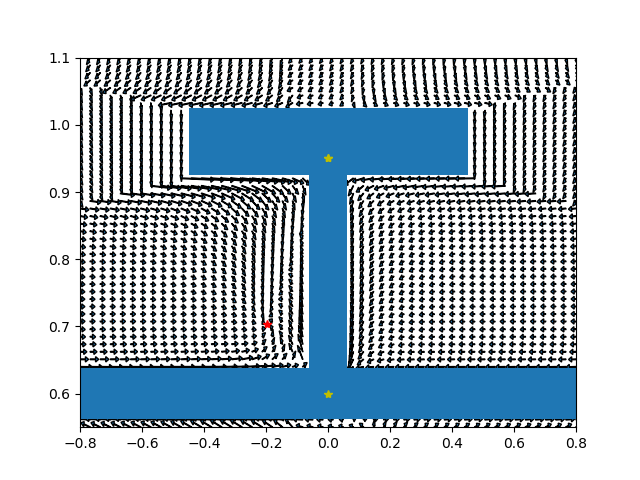
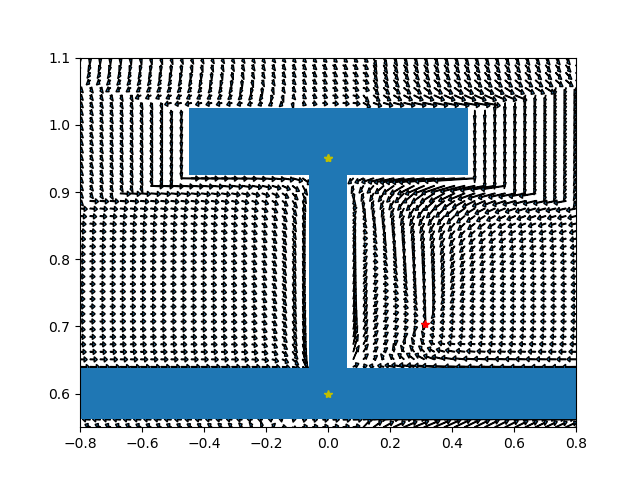
LOTS of changes... figured out that there is something wrong with our definition of gamma functions!!!

Changed region(s): [[0.125, 0.125, 0.9062, 0.7812], [0.125, 0.875, 0.9062, 0.9062]]

diff --git a/irg_panda_control/irg_panda_collision_control/scripts/cartHBSCollisionControl_DS_node.py b/irg_panda_control/irg_panda_collision_control/scripts/cartHBSCollisionControl_DS_node.py
@@ -3,6 +3,7 @@ from __future__ import print_function
 import rospy, math, sys
 from cartHBSModulation_class import CartesianMotionControl_DSModulation
 import numpy as np
+import numpy.linalg as LA
 from numpy import random as np_random
 
 # This is for modulation and visualization
@@ -45,9 +46,10 @@ if __name__ == '__main__':
                                                  # 2: Joint-space DS with task-space target  (JT-DS)
     
     #  Selected goal in joint space #
-    goal        = rospy.get_param('~goal', 1)   
-    ctrl_orient = rospy.get_param('~ctrl_orient', 0)   
-    draw_DS     = rospy.get_param('~draw_DS', 1)   
+    goal           = rospy.get_param('~goal', 1)   
+    ctrl_orient    = rospy.get_param('~ctrl_orient', 0)   
+    draw_DS        = rospy.get_param('~draw_DS', 1)   
+    do_streamlines = rospy.get_param('~stream', 1)   
 
     # control for position + orientation
     # DS_attractor= [x, y, z, q_x, q_y, q_z, q_w]
@@ -80,74 +82,123 @@ if __name__ == '__main__':
         ###########################################################        
         ''' -- Visualize expected DS vector field in 2D Slice -- '''
         ###########################################################        
-        x_target  = np.array([DS_attractor[1], DS_attractor[2]])
+        x_target      = np.array([DS_attractor[1], DS_attractor[2]])
+        margin_offset = 1.5
         # Define Reference Points
         ref_point1 =   np.array([0.0, 0.60])
 
         # Merged/T-shape
-        ref_point2 =   np.array([0.0, 0.95])
-        ref_point3  =  np.array([0.0, 0.95])
+        ref_point2 =   np.array([0.0, 1.025])
+        ref_point3  =  np.array([0.0, 1.025])
 
         # Independent Reference Points
-        # ref_point2 =   np.array([0.0, 0.975])
-        # ref_point3  =  np.array([0.0, 0.775])
+        # ref_point2 =   np.array([0.0, 1.03])
+        # ref_point3  =  np.array([0.0, 0.825])
 
         # Define Gammas
-        gamma1    = GammaRectangle2D(np.array(1.60),  np.array(0.075), np.array([0.0, 0.6]),  ref_point1)
-        gamma2    = GammaRectangle2D(np.array(0.90),  np.array(0.10),  np.array([0.0, 0.975]),  ref_point2)
-        gamma3    = GammaRectangle2D(np.array(0.125),  np.array(0.30),   np.array([0.0, 0.775]), ref_point3)
+        gamma1    = GammaRectangle2D(np.array(1.60),  np.array(0.05),  np.array([0.0, 0.6]),  ref_point1, margin_offset)
+        gamma2    = GammaRectangle2D(np.array(0.80),  np.array(0.075),  np.array([0.0, 1.045]),  ref_point2, margin_offset)
+        gamma3    = GammaRectangle2D(np.array(0.075),  np.array(0.375),  np.array([0.0, 0.825]), ref_point3, margin_offset)
+        # gammas_2d = [gamma1, gamma2, gamma3]
+        gammas_2d = [gamma2]
 
+        if do_streamlines:
+            # Add streamline plot from learned LPV-DS
+            fig, ax1 = plt.subplots()        
+            # Create figure/environment to draw trajectories on
+            fig1, ax1 = plt.subplots()
+            ax1.set_xlim(-0.8, 0.8)
+            ax1.set_ylim(0.55, 1.25)
+            # plt.gca().set_aspect('equal', adjustable='box')
+            plt.xlabel('$x_1$',fontsize=15)
+            plt.ylabel('$x_2$',fontsize=15)
+            plt.title('HBS Modulated DS 2D slice (x-axis):',fontsize=15)
 
-        gammas_2d = [gamma1, gamma2, gamma3]
+            for gamma in gammas_2d:
+                gamma.draw()
 
-        plt.figure()
-        for i in np.linspace(-0.8, 0.8, 50):
-            for j in np.linspace(0.55, 1.1, 50):                    
-                x = np.array([i, j])
-                if min([gamma(x) for gamma in gammas_2d]) < 1:
-                    continue
-                orig_ds = linear_controller(x, x_target)
-                modulated_x_dot = modulation_HBS(x, orig_ds, gammas_2d) * 0.05
-                plt.arrow(i, j, modulated_x_dot[0], modulated_x_dot[1],
-                    head_width=0.008, head_length=0.01)
+            grid_size = 50
+            Y, X = np.mgrid[0.55:1.25:50j, -0.8:0.8:50j]
+            V, U = np.mgrid[0.55:1.25:50j, -0.8:0.8:50j]
+            gamma_eval = gamma3
+            gamma_val = np.zeros((len(X), len(Y)))
+            for i in range(grid_size):
+                for j in range(grid_size):
+                    x_query    = np.array([X[i,j], Y[i,j]])        
+                    orig_ds    = linear_controller(x_query, x_target)
+                    mod_x_dot  = modulation_HBS(x_query, orig_ds, gammas_2d)
+                    x_dot_norm = mod_x_dot/LA.norm(mod_x_dot) * 0.02
+                    U[i,j]     = x_dot_norm[0]
+                    V[i,j]     = x_dot_norm[1]
 
-        for gamma in gammas_2d:
-            gamma.draw()
-        plt.axis([-0.8, 0.8, 0.55, 1.1])
-        # plt.gca().set_aspect('equal', adjustable='box')
-        plt.plot([x_target[0]], [x_target[1]], 'r*')
-        plt.plot([ref_point1[0]], [ref_point1[1]], 'y*')
-        plt.plot([ref_point2[0]], [ref_point2[1]], 'y*')
-        plt.plot([ref_point3[0]], [ref_point3[1]], 'y*')
-        # plt.savefig('../data/vector_field_HBS.png', bbox_inches='tight')
-        plt.savefig('../data/vector_field_HBS.png')
-        # plt.show()    
+                    gamma_vals     = np.stack([gamma(x_query) for gamma in gammas_2d])
+                    gamma_min      = min(gamma_vals)
+                    gamma_val[i,j] = gamma_min
+
+            strm      = ax1.streamplot(X, Y, U, V, density = 3.5, linewidth=0.55, color='k')
+            levels    = np.array([0, 1])
+            # cs0       = ax1.contour(X, Y, gamma_val, levels, origin='lower', colors='k', linewidths=2)
+            cs        = ax1.contourf(X, Y, gamma_val, np.arange(-5, 10, 2), cmap=plt.cm.coolwarm, extend='both', alpha=0.8)
+            cbar      = plt.colorbar(cs)
+            # cbar.add_lines(cs0)
+
+            # Add trajectories used to learn DS
+            ax1.plot([ref_point1[0]], [ref_point1[1]], 'y*')
+            ax1.plot([ref_point2[0]], [ref_point2[1]], 'y*')
+            ax1.plot([ref_point3[0]], [ref_point3[1]], 'y*')
+            ax1.plot(x_target[0], x_target[1], 'md', markersize=12, lw=2)
+            plt.savefig('../data/stream_lines_HBS.png')
+        else: 
+            plt.figure()
+            for i in np.linspace(-0.8, 0.8, 50):
+                for j in np.linspace(0.55, 1.1, 50):                    
+                    x = np.array([i, j])
+                    if min([gamma(x) for gamma in gammas_2d]) < 1:
+                        continue
+                    orig_ds = linear_controller(x, x_target)
+                    modulated_x_dot = modulation_HBS(x, orig_ds, gammas_2d) * 0.05
+                    plt.arrow(i, j, modulated_x_dot[0], modulated_x_dot[1],
+                        head_width=0.008, head_length=0.01)
+
+            for gamma in gammas_2d:
+                gamma.draw()
+            plt.axis([-0.8, 0.8, 0.55, 1.1])
+            plt.plot([x_target[0]], [x_target[1]], 'r*')
+            plt.plot([ref_point1[0]], [ref_point1[1]], 'y*')
+            plt.plot([ref_point2[0]], [ref_point2[1]], 'y*')
+            plt.plot([ref_point3[0]], [ref_point3[1]], 'y*')
+            plt.savefig('../data/vector_field_HBS.png')
 
     ##############################################
     ''' -- Generate Real 3D Gamma Functions -- '''
     ##############################################
-
+    margin_offset = 1.5
     # Define Reference Points
     ref_point1 =   np.array([0.625, 0.0, 0.60])
 
     # Merged/T-shape
-    ref_point2 =   np.array([0.625, 0.0, 0.95])
-    ref_point3  =  np.array([0.625, 0.0, 0.95])
+    ref_point2 =   np.array([0.625, 0.0, 1.025])
+    ref_point3  =  np.array([0.625, 0.0, 1.025])
 
     # Independent Reference Points
-    # ref_point2 =   np.array([0.625, 0.0, 0.975])
-    # ref_point3  =  np.array([0.625, 0.0, 0.775])
+    # ref_point2 =   np.array([0.625, 0.0, 1.03])
+    # ref_point3  =  np.array([0.625, 0.0, 0.825])    
 
     # Define Gammas
-    gamma1   = GammaRectangle3D(np.array(1.6),  np.array(0.075), np.array(0.2),    np.array([0.625, 0.0, 0.6]),  ref_point1)
-    gamma2   = GammaRectangle3D(np.array(0.90),  np.array(0.10),  np.array(0.25),  np.array([0.625, 0.0, 0.975]), ref_point2)
-    gamma3   = GammaRectangle3D(np.array(0.125), np.array(0.30),   np.array(0.25), np.array([0.625, 0.0, 0.775]), ref_point3)
-    gammas = [gamma1, gamma2, gamma3]
+    gamma1   = GammaRectangle3D(np.array(1.60),  np.array(0.05), np.array(0.2),    np.array([0.625, 0.0, 0.6]),   ref_point1, margin_offset)
+    gamma2   = GammaRectangle3D(np.array(0.80),  np.array(0.075),  np.array(0.25),  np.array([0.625, 0.0, 1.045]), ref_point2, margin_offset)
+    gamma3   = GammaRectangle3D(np.array(0.075),  np.array(0.375),   np.array(0.25), np.array([0.625, 0.0, 0.825]), ref_point3, margin_offset)
+    # gammas = [gamma1, gamma2, gamma3]
+    gammas = [gamma2]
 
     # DS system matrix, gains for each task-space error    
-    A_p = [[3.0, 0, 0], 
-           [0, 3.0, 0],
-           [0, 0, 3.0]]
+    # A_p = [[2.0, 0, 0], 
+    #        [0, 2.0, 0],
+    #        [0, 0, 2.0]]
+
+    A_p = [[0.5, 0, 0], 
+           [0, 0.5, 0],
+           [0, 0, 0.5]]
 
     A_o = [[3.0, 0, 0], 
            [0, 3.0, 0],

diff --git a/irg_panda_control/irg_panda_collision_control/scripts/obstacles.py b/irg_panda_control/irg_panda_collision_control/scripts/obstacles.py
@@ -35,12 +35,13 @@ class GammaCircle2D(Gamma):
 		plt.gca().add_artist(plt.Circle(self.center, self.radius.item()))
 
 class GammaRectangle2D(Gamma):
-	def __init__(self, w, h, center, ref_point):
+	def __init__(self, w, h, center, ref_point, margin_offset):
 		super(GammaRectangle2D, self).__init__()
 		self.center    = center
 		self.w         = w
 		self.h         = h
 		self.ref_point = ref_point
+		self.margin    = margin_offset
 	def __call__(self, pt):
 		x, y = pt - self.center
 		angle = np.arctan2(y, x)
@@ -49,9 +50,19 @@ class GammaRectangle2D(Gamma):
 		third = np.arctan2(-self.h/2, -self.w/2)
 		fourth = np.arctan2(-self.h/2, self.w/2)
 		if (first < angle < second) or (third < angle < fourth):
-			return 2 * np.abs(y) / self.h
+			gamma =  2 * np.abs(y) / self.h
 		else:
-			return 2 * np.abs(x) / self.w
+			gamma =  2 * np.abs(x) / self.w
+		
+		# Application of margin extrusion
+		if (gamma < self.margin) and (gamma > 1.0):
+			gamma = 1.0
+		if gamma < self.margin:
+			gamma = 1e-10
+
+		# print("gamma:", gamma)	
+		return gamma	
+
 	def grad(self, pt):
 		x, y = pt - self.center
 		angle = np.arctan2(y, x)
@@ -71,14 +82,16 @@ class GammaRectangle2D(Gamma):
 
 
 class GammaRectangle3D(Gamma):
-	def __init__(self, w, h, l_start, center, ref_point):
+	def __init__(self, w, h, l_start, center, ref_point, margin_offset):
 		super(GammaRectangle3D, self).__init__()
-		self.center   = center
-		self.w         = w + 0.05
-		self.h         = h + 0.05
+		self.center    = center
+		self.w         = w 
+		self.h         = h 
 		self.l_start   = l_start
-		self.l_start   = ref_point
+		self.ref_point = ref_point
 		self.gamma_val = 0
+		self.margin    = margin_offset
+
 	def __call__(self, pt):
 		x, y, z = pt - self.center
 		angle = np.arctan2(z, y)
@@ -86,17 +99,23 @@ class GammaRectangle3D(Gamma):
 		second = np.arctan2(self.h/2, -self.w/2)
 		third = np.arctan2(-self.h/2, -self.w/2)
 		fourth = np.arctan2(-self.h/2, self.w/2)
-		gamma_ = [] 
 		if (first < angle < second) or (third < angle < fourth):
-			gamma_ =  2 * np.abs(z) / self.h
+			gamma =  2 * np.abs(z) / self.h
 		else:
-			gamma_ =  2 * np.abs(y) / self.w 
+			gamma =  2 * np.abs(y) / self.w 
 		
-		if (gamma_ < 1) and (pt[0] < self.l_start):
-			gamma_ =  gamma_ +  2 * np.abs(x) / (1 - self.l_start) 
+		# Application of margin extrusion
+		if (gamma < self.margin) and (gamma > 1.0):
+			gamma = 1.0
+		if gamma < self.margin:
+			gamma = 1e-10
 
-		self.gamma_val = gamma_
-		return gamma_	
+		if (gamma < 1) and (pt[0] < self.l_start):
+			gamma =  gamma +  2 * np.abs(x) / (1 - self.l_start) 
+
+
+		self.gamma_val = gamma
+		return gamma	
 
 	def grad(self, pt):
 		x, y, z = pt - self.center
@@ -110,9 +129,9 @@ class GammaRectangle3D(Gamma):
 			gamma_grad =  np.stack([0, np.array(0.), np.sign(z)*2/self.h])
 		else:
 			gamma_grad =  np.stack([0, np.sign(y)*2/self.w, np.array(0.)])		
-		
-		if (self.gamma_val < 1) and (pt[0] < self.l_start):
-			gamma_grad[0] = -10
+		norm_2d = np.linalg.norm(gamma_grad)
+		if (self.gamma_val < 1.1) and (pt[0] < self.l_start):
+			gamma_grad[0] = -0.5*norm_2d
 
 		return gamma_grad
 

diff --git a/irg_panda_control/irg_panda_collision_control/scripts/gamma_evaluation_node.py b/irg_panda_control/irg_panda_collision_control/scripts/gamma_evaluation_node.py
@@ -36,22 +36,22 @@ for k in np.linspace(0.55, 1.1, grid_size):
 
         # -- Fill in here the colors with gamma function -- #
         if use_gamma:
+          margin_offset = 1.5
           # Define Reference Points
           ref_point1 =   np.array([0.625, 0.0, 0.60])
 
           # Merged/T-shape
-          ref_point2 =   np.array([0.625, 0.0, 0.95])
-          ref_point3  =  np.array([0.625, 0.0, 0.95])
+          ref_point2 =   np.array([0.625, 0.0, 1.025])
+          ref_point3  =  np.array([0.625, 0.0, 1.025])
 
           # Independent Reference Points
-          # ref_point2 =   np.array([0.625, 0.0, 0.975])
-          # ref_point3  =  np.array([0.625, 0.0, 0.775])
+          # ref_point2 =   np.array([0.625, 0.0, 1.03])
+          # ref_point3  =  np.array([0.625, 0.0, 0.825])    
 
           # Define Gammas
-          gamma1   = GammaRectangle3D(np.array(1.6),  np.array(0.075), np.array(0.2),    np.array([0.625, 0.0, 0.6]),  ref_point1)
-          gamma2   = GammaRectangle3D(np.array(0.90),  np.array(0.10),  np.array(0.25),  np.array([0.625, 0.0, 0.975]), ref_point2)
-          gamma3   = GammaRectangle3D(np.array(0.125), np.array(0.30),   np.array(0.25), np.array([0.625, 0.0, 0.775]), ref_point3)
-
+          gamma1   = GammaRectangle3D(np.array(1.60),  np.array(0.05), np.array(0.2),    np.array([0.625, 0.0, 0.6]),   ref_point1, margin_offset)
+          gamma2   = GammaRectangle3D(np.array(0.80),  np.array(0.075),  np.array(0.25),  np.array([0.625, 0.0, 1.045]), ref_point2, margin_offset)
+          gamma3   = GammaRectangle3D(np.array(0.075),  np.array(0.375),   np.array(0.25), np.array([0.625, 0.0, 0.825]), ref_point3, margin_offset)
           gammas = [gamma1, gamma2, gamma3]
           x_eval = np.array([x, y, z])          
           # print("Gamma vals:", gamma_vals)

diff --git a/irg_panda_control/irg_panda_collision_control/scripts/cartHBSModulation_class.py b/irg_panda_control/irg_panda_collision_control/scripts/cartHBSModulation_class.py
@@ -241,8 +241,12 @@ class CartesianMotionControl_DSModulation(object):
         else:
             lin_vel =  self.scale_DS*modulation_HBS(np.array(self.ee_pos), np.array(orig_ds), self.gammas) 
             if np.isnan(LA.norm(lin_vel)):
-                rospy.loginfo('Collided!!')
-                lin_vel =  self.scale_DS*orig_ds
+                rospy.loginfo('Collided!! PENETRATED SURFACE FUNCTION!!!')
+                # raise AssertionError()
+                # lin_vel =  np.array([0,0,0])
+                # lin_vel =  self.scale_DS*orig_ds
+
+        rospy.loginfo('Desired linear velocity: {}'.format(lin_vel))     
 
         # --- Quaternion error --- #
         quat_attr_    = Quaternion(array=[self.DS_quat_att[3],self.DS_quat_att[0],self.DS_quat_att[1],self.DS_quat_att[2]])

diff --git a/irg_panda_control/irg_panda_collision_control/scripts/modulation_ros.py b/irg_panda_control/irg_panda_collision_control/scripts/modulation_ros.py
@@ -125,7 +125,8 @@ def modulation_HBS(x, orig_ds, gammas):
     for i in range(gamma_vals.shape[0]):
         if gamma_vals[i] < 1:
             print("COLLIDED.. slipping now..")
-            gamma_vals[i] = 1         
+            # raise AssertionError()
+               
     
     ms = np.log(gamma_vals - 1 + epsilon)
     logprod = ms.sum()
